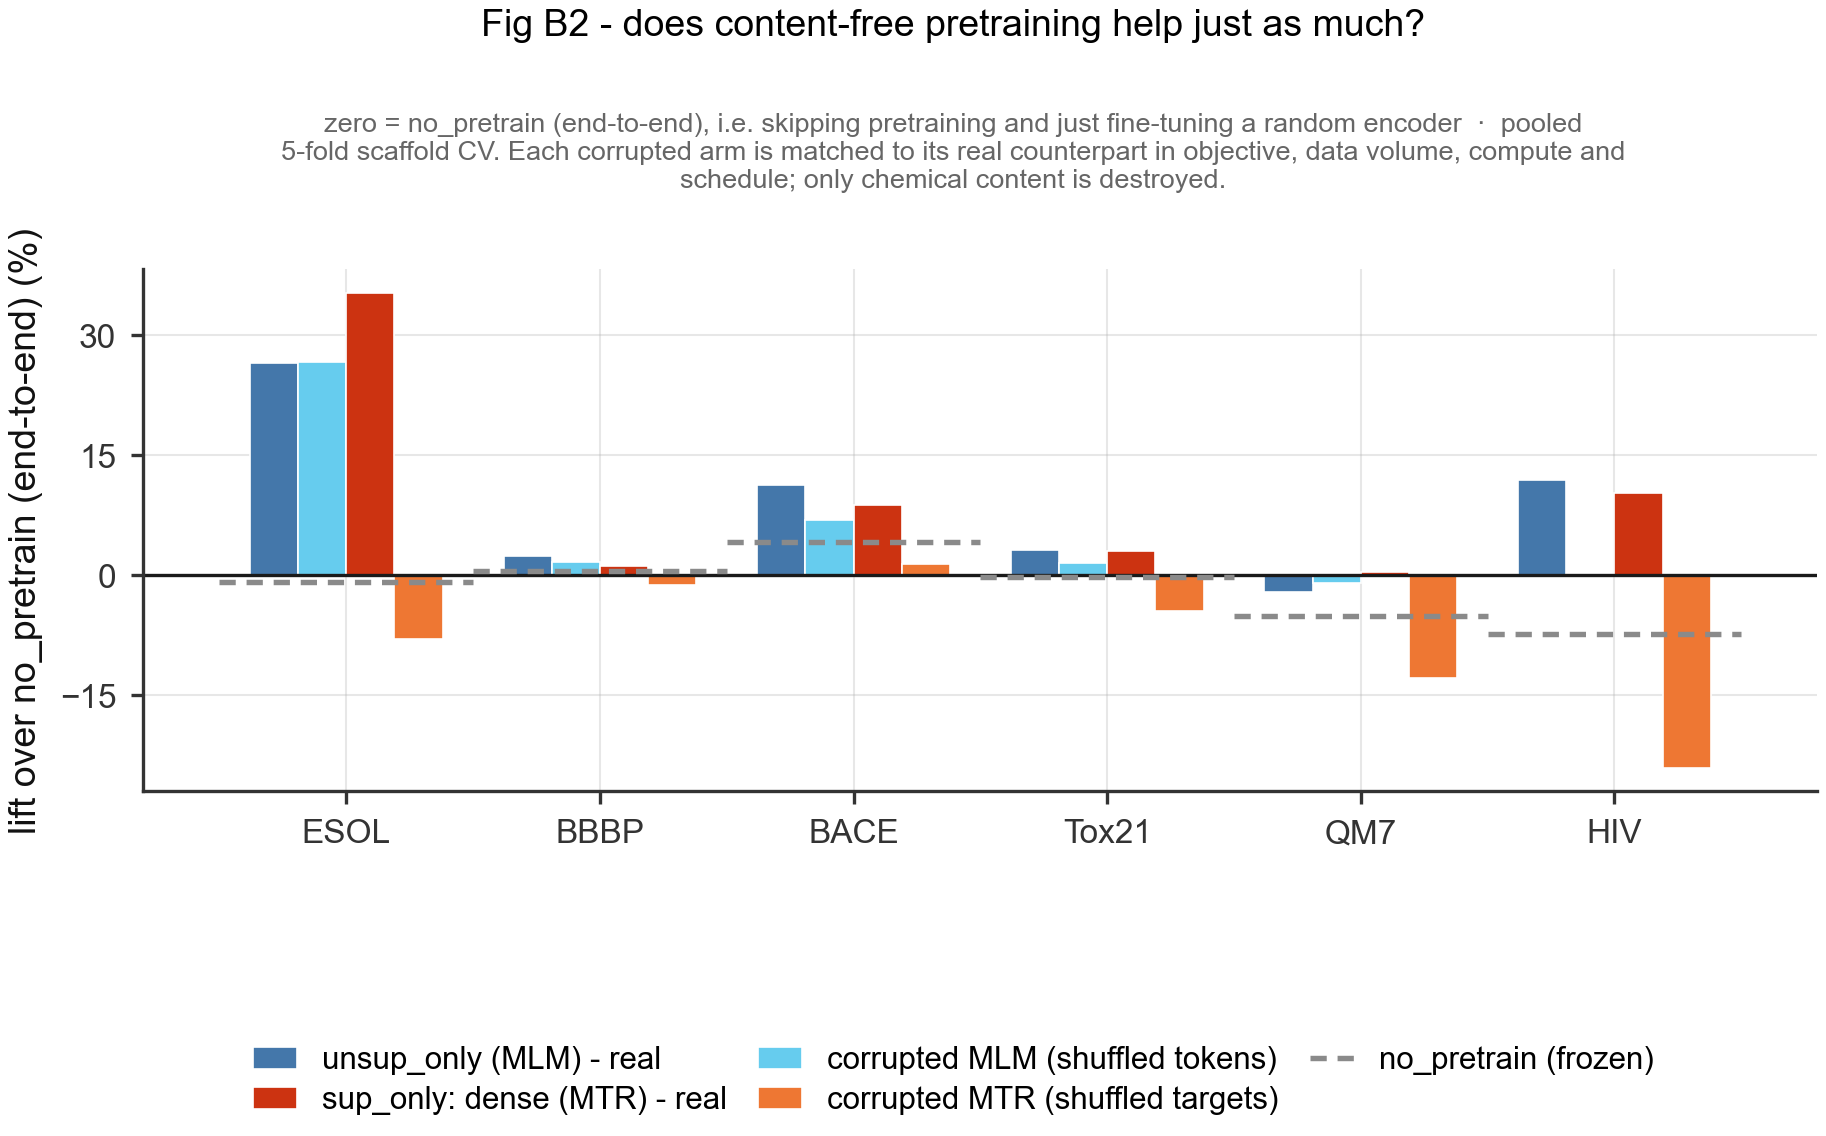
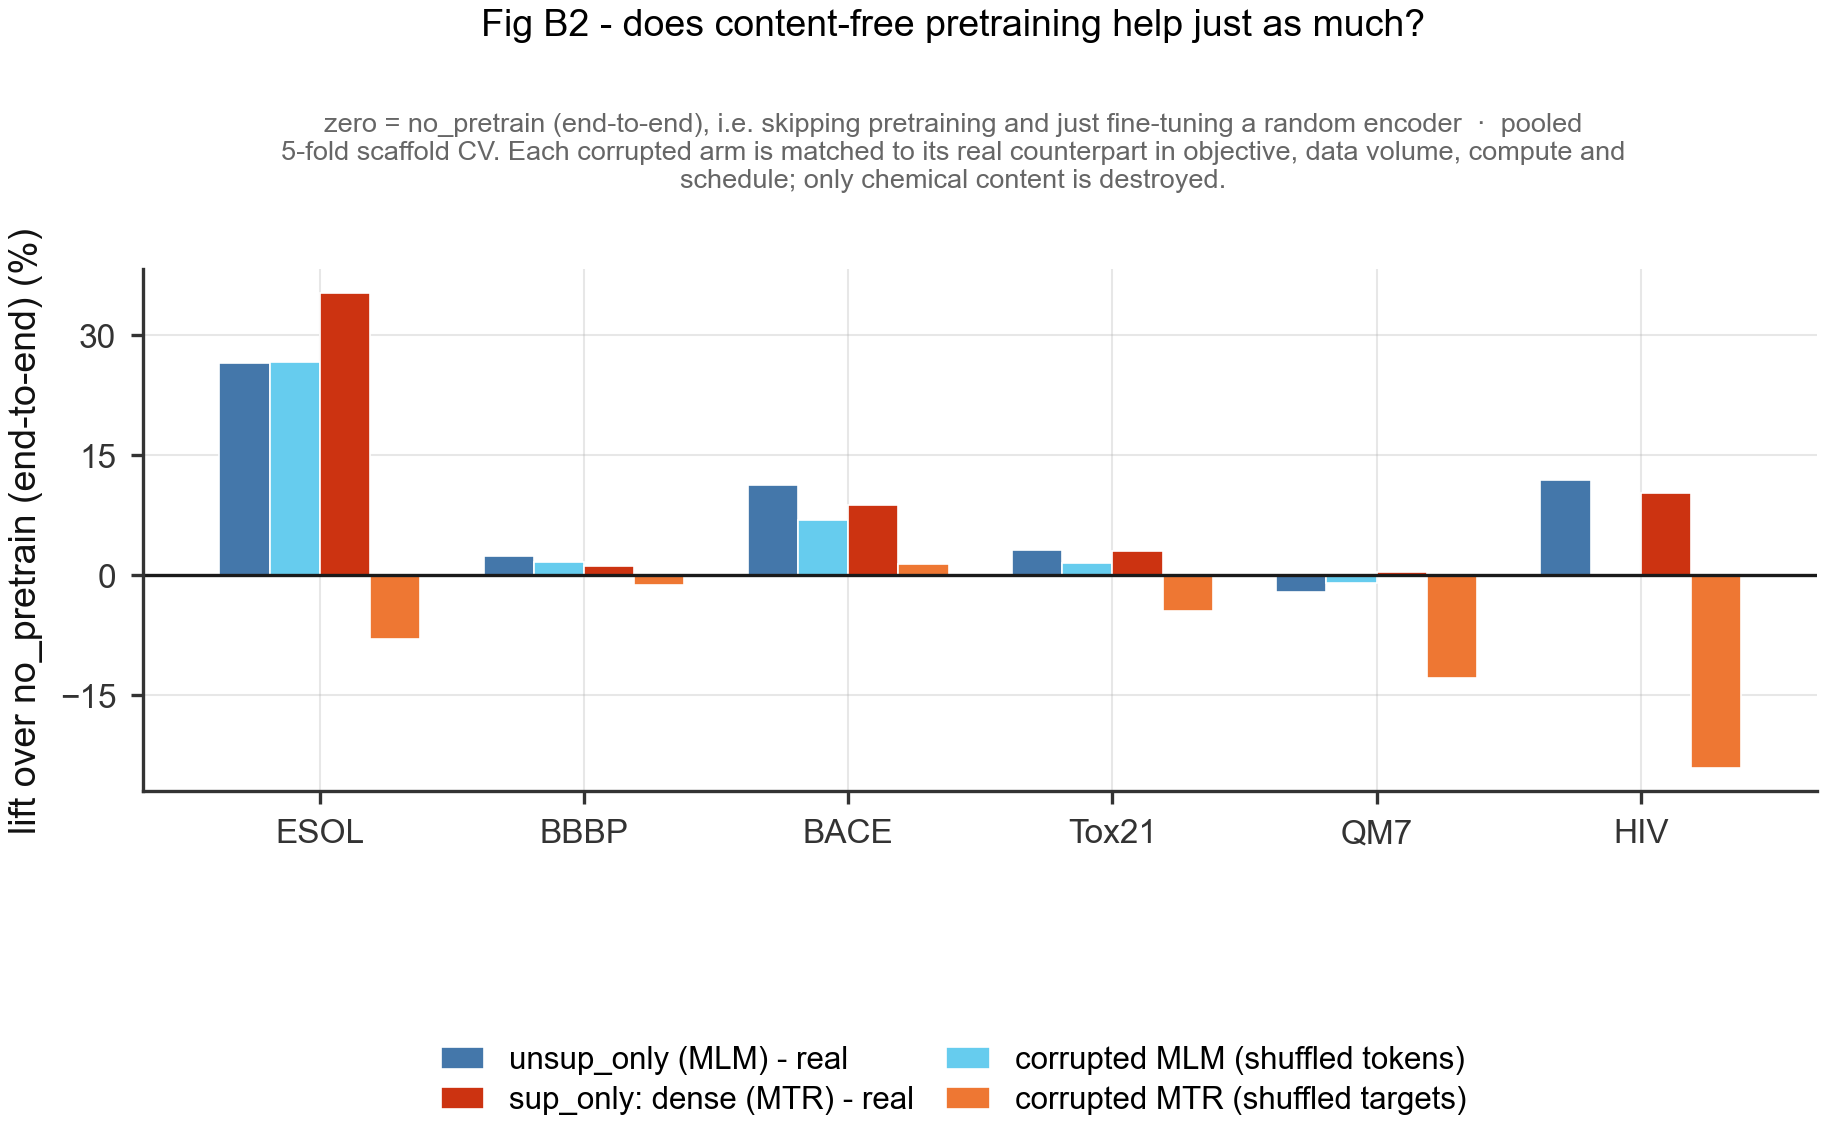
B2: drop the frozen no_pretrain reference line
Four bars per task plus a dashed per-task reference was more ink than signal; the frozen floor's
position is not what this figure is asking. Zero is still no_pretrain (end-to-end), stated in the
caption, so the comparison the panel exists for -- real vs corrupted, within each objective -- is
what is left on the page. Legend back to a paired 2x2.

diff --git a/notebook_cells/18.py b/notebook_cells/18.py
@@ -37,18 +37,6 @@ for i,(key,lab,c) in enumerate(B2_SERIES):
 ax.axhline(0,color=PALETTE["black"],lw=0.8)
 # "Skip pretraining and just fine-tune" is the reference that makes the corrupted/real contrast
 # actionable: a corrupted arm that clears no_pretrain but not this one has bought nothing real.
-# Where the FROZEN random encoder sits on this axis. It is well below zero on most tasks, which
-# is the point: "beats a frozen random encoder" and "beats a fine-tuned one" are very different bars.
-_frz=[100*lift(npt_floor(B2_DF,t),t,b2_floor(t)) for t in CORE_TASKS]
-if any(np.isfinite(v) for v in _frz) and B2_FLOOR_LABEL.endswith("(end-to-end)"):
-    for xi,v in zip(x,_frz):
-        if np.isfinite(v):
-            ax.plot([xi-0.5,xi+0.5],[v,v],color=rc_color("no_pretrain"),ls=(0,(3,2)),lw=1.3,
-                    zorder=5,solid_capstyle="butt")
-    _e2e_h=[plt.Line2D([],[],color=rc_color("no_pretrain"),ls=(0,(3,2)),lw=1.3,
-                       label="no_pretrain (frozen)")]
-else:
-    _e2e_h=[]
 ax.set_xticks(x); ax.set_xticklabels([TASKS[t]["pretty"] for t in CORE_TASKS])
 # The global style turns minor ticks on, which is right for a continuous axis and wrong here: this
 # x-axis is six categories, so the minor ticks mark positions that do not exist.
@@ -70,11 +58,11 @@ elif not _b2_have_cv:
 # fills column-first, so the handles are reordered here to land as [TL, TR / BL, BR].
 _h,_l=ax.get_legend_handles_labels()
 _ord=[0,2,1,3]                       # -> col0 = (MLM real, MTR real); col1 = (MLM corr, MTR corr)
-# Column-major fill: with 5 entries and ncol=3 this lands as
-#   col0 = (MLM real, MTR real) | col1 = (MLM corrupted, MTR corrupted) | col2 = (reference)
+# Column-major fill: with 4 entries and ncol=2 this lands as
+#   col0 = (MLM real, MTR real) | col1 = (MLM corrupted, MTR corrupted)
 # so each real/corrupted pair reads across a row, which is the comparison the figure is about.
-fig.legend(handles=[_h[i] for i in _ord]+_e2e_h,labels=[_l[i] for i in _ord]+[h.get_label() for h in _e2e_h],
-           loc="upper center",bbox_to_anchor=(0.5,0.02),ncol=3,fontsize=STYLE["fs_legend"])
+fig.legend(handles=[_h[i] for i in _ord],labels=[_l[i] for i in _ord],
+           loc="upper center",bbox_to_anchor=(0.5,0.02),ncol=2,fontsize=STYLE["fs_legend"])
 fig.suptitle("Fig B2 - does content-free pretraining help just as much?",
              fontsize=STYLE["fs_title"],y=1.18)
 _b2note=(f"zero = {B2_FLOOR_LABEL}, i.e. skipping pretraining and just fine-tuning a random "
